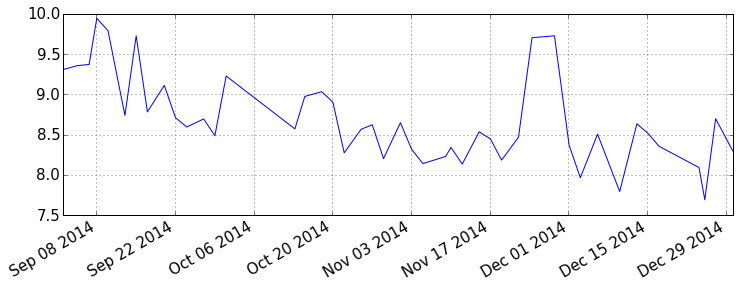
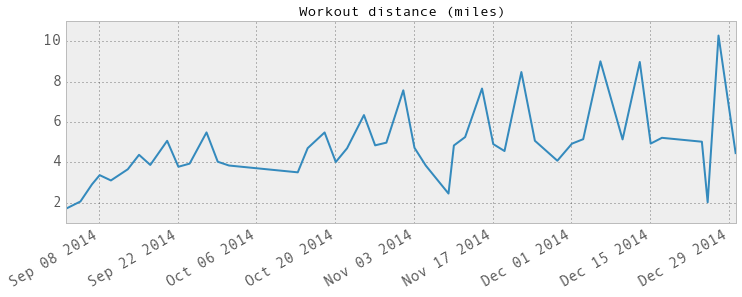
Update mapmyfitness post.
Former-commit-id: be5847e43cd315c98875684967a5f23da139e61b

diff --git a/_posts/2014-12-31-mapmyfitness_pandas.md b/_posts/2014-12-31-mapmyfitness_pandas.md
@@ -34,6 +34,7 @@ from mapmyfitness import MapMyFitness
 import matplotlib.pyplot as plt
 import matplotlib
 import numpy as np
+pd.options.display.mpl_style = 'default'
 {% endhighlight %}
 
 The next cell logs into MMF, grabs all my workout data, filters for a specified
@@ -47,28 +48,29 @@ def get_workouts(verbose=True, workout_type='run'):
             access_token='your-token')
 
     # get all workouts
-    workouts = mmf.workout.search(user=48155002,per_page=40)  # doesn't work if per_page>40
+    workout_pages = mmf.workout.search(user=48155002,per_page=40,cache_finds=True)  # doesn't work if per_page>40
 
-    paces = []
+    paces     = []
     distances = []
-    dates = []
+    dates     = []
+    workouts  = []
 
-    for pagenum in workouts.page_range:
-        workout_list = workouts.page(pagenum)
+    for pagenum in workout_pages.page_range:
+        workout_list = workout_pages.page(pagenum)
 
         for i,workout in enumerate(workout_list):
             if verbose:
                 print "processing workout " + str(i+1) + " of " + str(len(workout_list))
-            if workout_type in workout.activity_type.name.lower():
+            if workout_type in workout.activity_type.root_activity_type.name.lower():
+                workouts.append(workout)
                 distances.append(workout.distance_total/1609.344) # convert meters to miles
                 paces.append(26.8224/workout.speed_avg) # convert m/s to minutes per mile
                 dates.append(workout.start_datetime)
-    return distances, paces, dates, workout_list
+    return distances, paces, dates, workouts
 {% endhighlight %}
 
-Be warned that this function takes a while; you can set `verbose=1` to have it
-update you regularly.  I'm not sure why it's slow -- the downloading is fast,
-but the filtering and extracting is slow.
+Be warned that this function takes a while.  You can set `verbose=1` to have it
+update you regularly.
 
 {% highlight python %}
 distances, paces, dates, workout_list = get_workouts(verbose=0)
@@ -135,6 +137,11 @@ df.head()
 
 
 
+As you can see, the workouts are sorted chronologically.  I started training
+(and using MapMyFitness) at the beginning of September, about 4 months ago.  At
+the time I could only comfortably run 2-3 miles, and my pace was slower than 9
+minutes per mile.
+
 # Basic plotting
 
 Now we can easily plot workout distance and pace versus date:
@@ -142,49 +149,123 @@ Now we can easily plot workout distance and pace versus date:
 {% highlight python %}
 fs = 15
 plotargs = {'figsize' : (12,4), 'fontsize' : fs}
-df.Distance.plot(**plotargs);
-{% endhighlight %}
-
-
-![]({{ site.baseurl}}notebooks/mmf_pandas_files/mmf_pandas_13_0.png)
-
-
-{% highlight python %}
-df.Pace.plot(**plotargs);
+df.Distance.plot(title='Workout distance (miles)',lw=2,**plotargs);
 {% endhighlight %}
 
 
 ![]({{ site.baseurl}}notebooks/mmf_pandas_files/mmf_pandas_14_0.png)
 
 
-Clearly, I'm running farther and faster as my training program progresses!
+{% highlight python %}
+df.Pace.plot(title='Average pace (minutes per mile)',lw=2,**plotargs);
+{% endhighlight %}
 
-How far have I run in total?  Here's a cumulative distance plot, showing that
-I've run more than 200 miles.
+
+![]({{ site.baseurl}}notebooks/mmf_pandas_files/mmf_pandas_15_0.png)
+
+
+Clearly, I'm running farther and faster as my training program progresses!  My
+pace is down to around 8 minutes per mile, and my typical runs are 5 miles or
+more.  Here's a histogram of the distances for all my workouts since I started:
 
 {% highlight python %}
-df.Distance.cumsum().plot(**plotargs);
+df.Distance.plot(kind='hist',title='Workout distance (miles)');
+plt.xlabel('Miles'); plt.ylabel('Number of runs');
 {% endhighlight %}
 
 
 ![]({{ site.baseurl}}notebooks/mmf_pandas_files/mmf_pandas_17_0.png)
 
 
-# Longest runs
+How far have I run in total?  Here's a cumulative distance plot, showing that
+I've run more than 200 miles.
 
 {% highlight python %}
-df.Distance.nlargest(5)
+df.Distance.cumsum().plot(title='Total workout distance (miles)',lw=2,**plotargs);
+{% endhighlight %}
+
+
+![]({{ site.baseurl}}notebooks/mmf_pandas_files/mmf_pandas_19_0.png)
+
+
+# Stacked histogram separated by dates
+
+Let's see how my paces in the last two months compare to those in the first two
+months.  I suspect Pandas has a better way to do this than what I've implemented
+below, but this works...
+
+{% highlight python %}
+pace1 = []
+pace2 = []
+
+for date,pace in zip(df.index,df['Pace']):
+    if date.month<11:
+        pace1.append(pace)
+        pace2.append(np.nan)
+    else:
+        pace1.append(np.nan)
+        pace2.append(pace)
+        
+df2 = pd.DataFrame({'First two months pace' : pd.Series(pace1,index=dates), 
+                    'Last two months pace' : pd.Series(pace2,index=dates)})
+df2.plot(kind='hist',stacked=True,fontsize=fs); plt.ylabel('# of runs');
+{% endhighlight %}
+
+
+![]({{ site.baseurl}}notebooks/mmf_pandas_files/mmf_pandas_22_0.png)
+
+
+Again, it's clear that my pace has improved.
+
+# Longest runs
+
+Here are my five longest runs:
+
+{% highlight python %}
+df.sort('Distance')[-5:][::-1]
 {% endhighlight %}
 
 
 
 
-    2014-12-27 04:39:34+00:00    10.28480
-    2014-12-06 04:36:18+00:00     9.00748
-    2014-12-13 04:39:00+00:00     8.97491
-    2014-11-22 03:09:55+00:00     8.47542
-    2014-11-15 03:09:18+00:00     7.65717
-    Name: Distance, dtype: float64
+<div style="max-height:1000px;max-width:1500px;overflow:auto;">
+<table border="1" class="dataframe">
+  <thead>
+    <tr style="text-align: right;">
+      <th></th>
+      <th>Distance</th>
+      <th>Pace</th>
+    </tr>
+  </thead>
+  <tbody>
+    <tr>
+      <th>2014-12-27 04:39:34+00:00</th>
+      <td> 10.28480</td>
+      <td> 8.698211</td>
+    </tr>
+    <tr>
+      <th>2014-12-06 04:36:18+00:00</th>
+      <td>  9.00748</td>
+      <td> 8.506801</td>
+    </tr>
+    <tr>
+      <th>2014-12-13 04:39:00+00:00</th>
+      <td>  8.97491</td>
+      <td> 8.635715</td>
+    </tr>
+    <tr>
+      <th>2014-11-22 03:09:55+00:00</th>
+      <td>  8.47542</td>
+      <td> 8.469062</td>
+    </tr>
+    <tr>
+      <th>2014-11-15 03:09:18+00:00</th>
+      <td>  7.65717</td>
+      <td> 8.535385</td>
+    </tr>
+  </tbody>
+</table>
+</div>
 
 
 
@@ -205,7 +286,7 @@ fig.set_ylabel('minutes per mile',fontsize=fs);
 {% endhighlight %}
 
 
-![]({{ site.baseurl}}notebooks/mmf_pandas_files/mmf_pandas_24_0.png)
+![]({{ site.baseurl}}notebooks/mmf_pandas_files/mmf_pandas_31_0.png)
 
 
 The total milage per week:
@@ -216,7 +297,7 @@ fig.set_ylabel('Miles',fontsize=fs);
 {% endhighlight %}
 
 
-![]({{ site.baseurl}}notebooks/mmf_pandas_files/mmf_pandas_26_0.png)
+![]({{ site.baseurl}}notebooks/mmf_pandas_files/mmf_pandas_33_0.png)
 
 
 The plot above shows that I have not been terribly consistent, and have missed a
@@ -232,5 +313,39 @@ fig.set_ylabel('Miles',fontsize=fs);
 {% endhighlight %}
 
 
-![]({{ site.baseurl}}notebooks/mmf_pandas_files/mmf_pandas_29_0.png)
+![]({{ site.baseurl}}notebooks/mmf_pandas_files/mmf_pandas_36_0.png)
+
+
+# Plotting the routes
+MapMyFitness records the actual routes, so we can also plot them.
+
+{% highlight python %}
+import mpld3
+mpld3.enable_notebook()
+
+plt.figure(figsize=(8,8))
+
+for w in workout_list:
+    if w.route is not None:
+        points = [(p['lat'],p['lng']) for p in w.route.points()];
+        lat, long = zip(*points);
+        if min(long)>39:  # Omit workouts in other countries
+            plt.plot(long,lat)
+{% endhighlight %}
+
+
+
+The resulting map was a bit too much for Jekyll to handle, since it
+gets embedded as a huge amount of text.  Go check it out in 
+[the actual notebook](http://nbviewer.ipython.org/url/www.davidketcheson.info/notebooks/mmf_pandas.ipynb).
+The map is zoomable, thanks to mpld3.  You can see
+a lot of the roads at KAUST, as well as the running paths around the Gardens and
+through Thuwal park on the Island (see the squiggly line on the top left).  The
+path to the beacon is also obvious.  The line at the far right goes to the KAUST
+stadium, with a partial lap around the track.  You can even see where the road
+to the south Beach has moved due to construction.
+
+If you're not familiar with KAUST, just compare the plot above with a [satellite
+map](https://www.google.com.sa/maps/@22.3154039,39.1157315,5583m/data=!3m1!1e3?h
+l=en).
 
